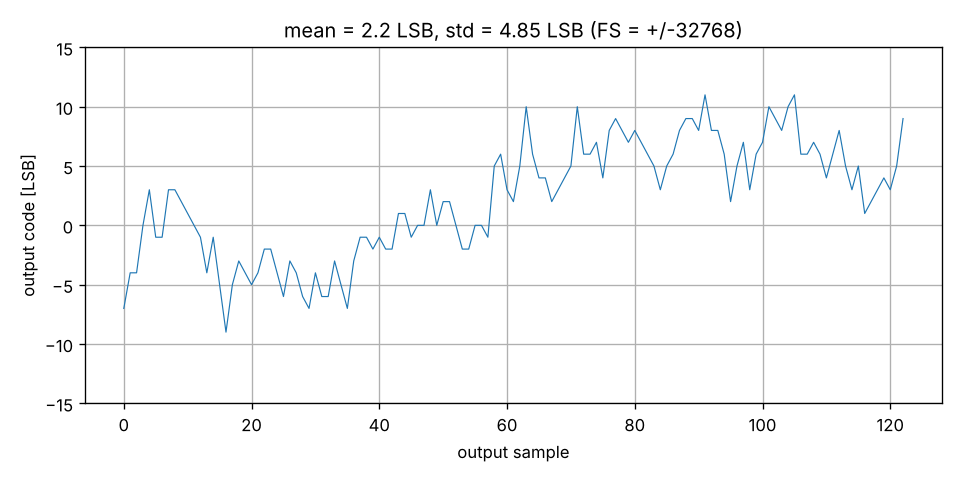
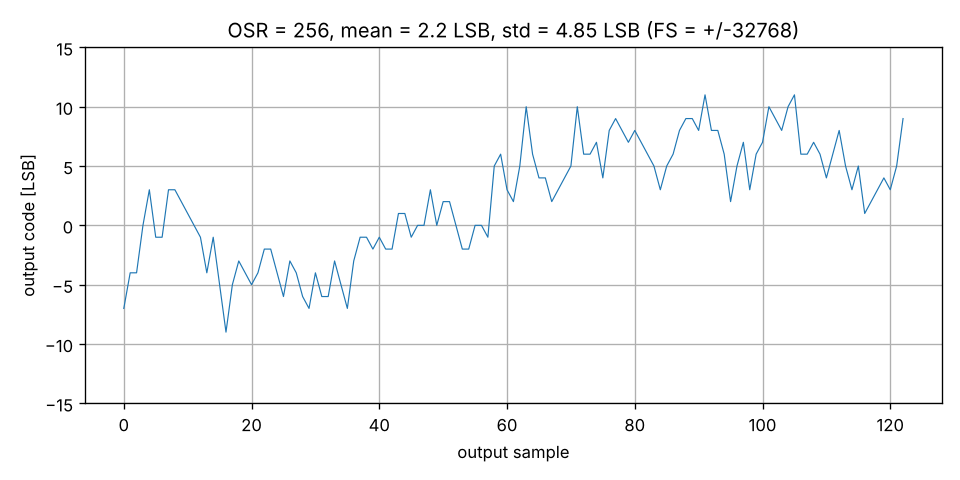
noisemean.py: show OSR in plot title
Claude-Session: https://claude.ai/code/session_01Y3JJ4xf97M23KyxRZanrVn

Changed region(s): [[0.25, 0.0312, 0.8438, 0.0938]]

diff --git a/noisemean.py b/noisemean.py
@@ -74,7 +74,7 @@ def main():
     fig, ax = plt.subplots(figsize=(8, 4))
     ax.plot(code, lw=0.7)
     ax.set(xlabel="output sample", ylabel="output code [LSB]", ylim=(-YLIM, YLIM),
-           title=f"mean = {z:.1f} LSB, std = {sd:.2f} LSB (FS = +/-{a.lsb_fs:g})")
+           title=f"OSR = {a.osr}, mean = {z:.1f} LSB, std = {sd:.2f} LSB (FS = +/-{a.lsb_fs:g})")
     ax.grid(True)
     fig.tight_layout()
     fig.savefig(a.out + ".png", dpi=120)
